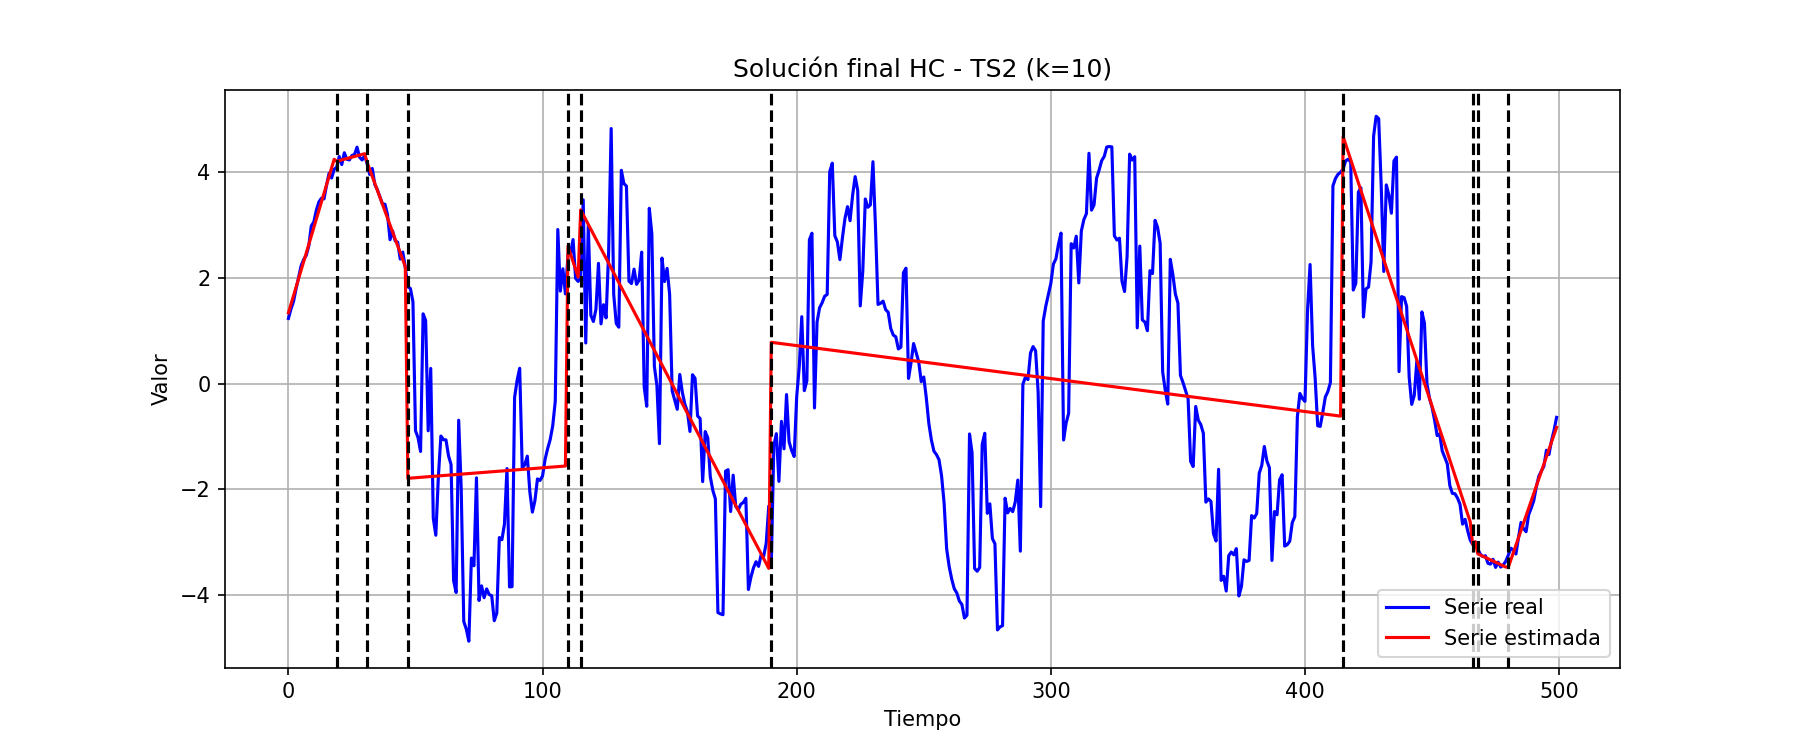
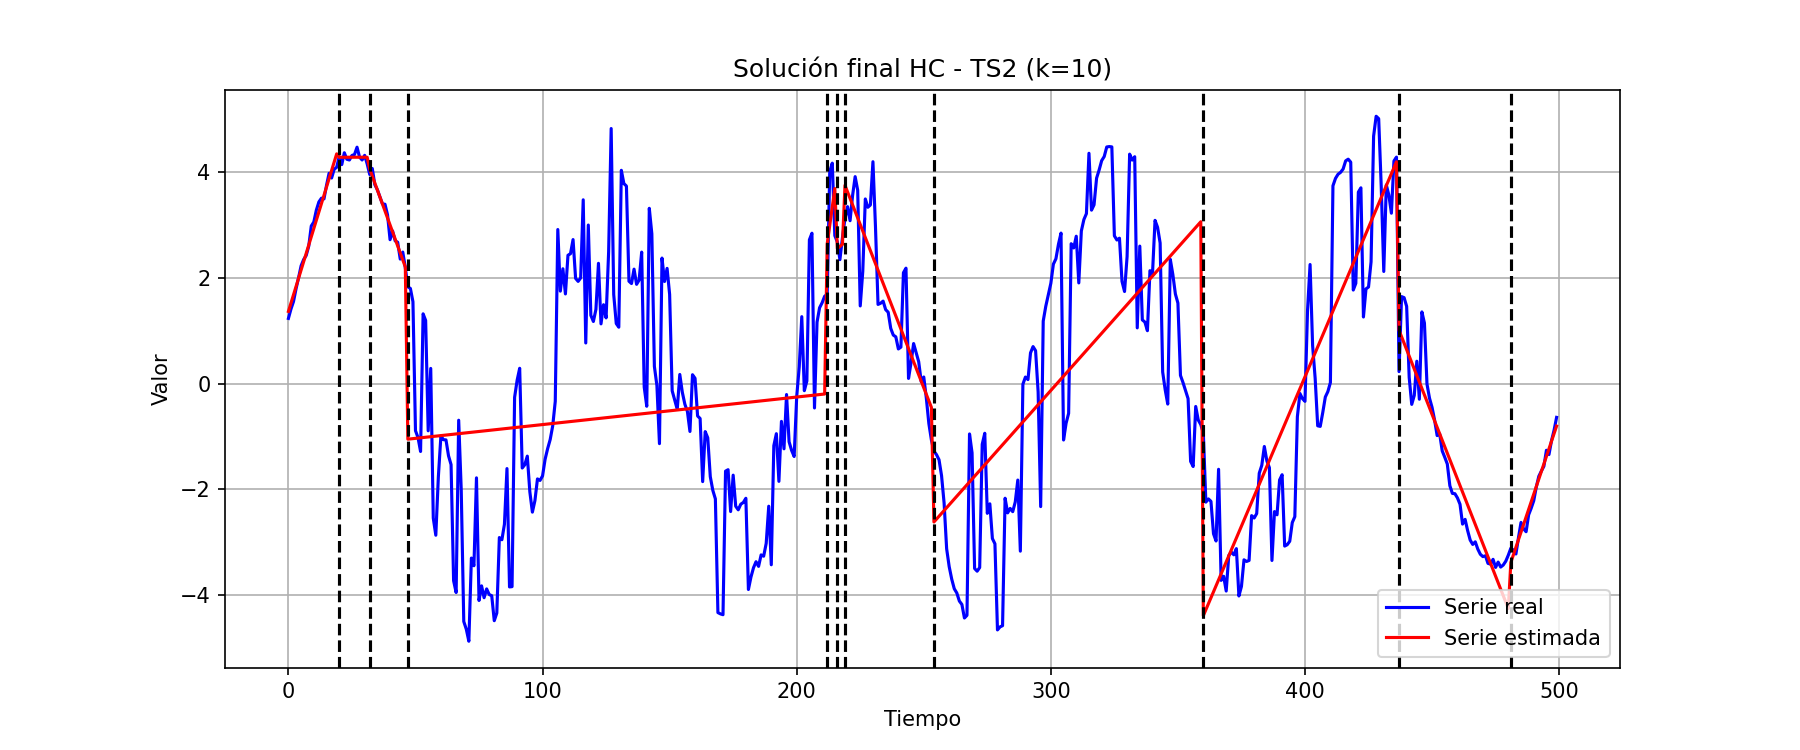
Fix: better linear regression

diff --git a/HC/hill_climbing.py b/HC/hill_climbing.py
@@ -17,38 +17,61 @@ def read_serie(path):
     return [float(x) for x in contenido]
 
 
-def estimate_segment_coef(x, y):
-    x = np.array(x).reshape(-1, 1)
+
+def estimate_coef(x, y):
+    x = np.array(x)
     y = np.array(y)
-    if len(x) < 2:
+    n = np.size(x)
+
+    if n == 0:
         return (0.0, 0.0)
-    model = LinearRegression().fit(x, y)
-    return (model.coef_[0], model.intercept_)
+
+    m_x = np.mean(x)
+    m_y = np.mean(y)
+
+    SS_xy = np.sum(y * x) - n * m_y * m_x
+    SS_xx = np.sum(x * x) - n * m_x * m_x
+
+    if abs(SS_xx) < 1e-8:
+        b_0 = 0.0
+        b_1 = m_y
+    else:
+        b_0 = SS_xy / SS_xx
+        b_1 = m_y - b_0 * m_x
+
+    return (float(b_0), float(b_1))
 
 
-def estimate_all_coef(serie, points):
+def estimate_all_coef(temp, points):
     coef = []
     start = 0
+
     pts = points.copy()
-    pts.append(len(serie))
-    for end in pts:
-        x = list(range(start, end))
-        y = serie[start:end]
-        coef.append(estimate_segment_coef(x, y))
-        start = end
+    pts.append(len(temp))
+
+    for point in pts:
+        b_0, b_1 = estimate_coef(range(start, point), temp[start:point])
+        coef.append((b_0, b_1))
+        start = point
+
     return coef
 
 
-def estimate_all_points(coef, points, n):
+def estimate_point(coef, i):
+    return i * coef[0] + coef[1]
+
+def estimate_all_points(coef, points, temp_size):
     estimated = []
     start = 0
+
     pts = points.copy()
-    pts.append(n)
-    for idx, end in enumerate(pts):
-        m, b = coef[idx]
-        for i in range(start, end):
-            estimated.append(m * i + b)
-        start = end
+    pts.append(temp_size)
+
+    for pos, point in enumerate(pts):
+        for i in range(start, point):
+            estimated.append(estimate_point(coef[pos], i))
+        start = point
+
     return estimated
 
 
@@ -108,12 +131,12 @@ def search_neighbour(serie, n):
     for i, point in enumerate(serie):
         # Mover + 1% del tamaño de la serie
         v1 = serie.copy()
-        v1[i] = point + int(n / 100)
+        v1[i] = point + int(n / 50)
         vecinos.append(v1)
 
         # Mover - 1% del tamaño de la serie
         v2 = serie.copy()
-        v2[i] = point - int(n / 100)
+        v2[i] = point - int(n / 50)
         vecinos.append(v2)
 
     validos = []
@@ -144,11 +167,11 @@ def hc(serie, k, best=None):
     solucion = randomPoints(len(serie), k)
     rmse = mean_rmse(serie, solucion)
     mejor_vecino = []
-
+    evolution=[]
     while mejor_vecino is not None:
         vecinos = search_neighbour(solucion, len(serie))
 
-        mejor_vecino = None
+        mejor_vecino = None 
         mejor_rmse = rmse
 
         for v in vecinos:
@@ -161,12 +184,14 @@ def hc(serie, k, best=None):
             solucion = mejor_vecino
             rmse = mejor_rmse
 
+        evolution.append({"rmse":rmse,"points":solucion})
+
     if best is not None and best["rmse"] < rmse:
         rmse = best["rmse"]
         solucion = best["points"]
 
     endTime = time.time()
-    return {"rmse": rmse, "points": solucion}, endTime - startTime
+    return {"rmse": rmse, "points": solucion}, endTime - startTime, evolution
 
 
 # ============================================================
@@ -186,7 +211,7 @@ def ejecutar_HC(series, k_values, repeticiones=20):
         rep_result = []
         for rep in range(repeticiones):
             if len(rep_result) > 0:
-                sol, tiempo = hc(
+                sol, tiempo, _= hc(
                     serie,
                     k,
                     {
@@ -195,7 +220,7 @@ def ejecutar_HC(series, k_values, repeticiones=20):
                     },
                 )
             else:
-                sol, tiempo = hc(serie, k)
+                sol, tiempo, _= hc(serie, k)
 
             rep_result.append(
                 {"rmse": sol["rmse"], "points": sol["points"], "tiempo": tiempo}

diff --git a/SA/simulated_annealing.py b/SA/simulated_annealing.py
@@ -32,30 +32,60 @@ def estimate_segment_coef(x, y):
     model = LinearRegression().fit(x, y)
     return (model.coef_[0], model.intercept_)
 
+def estimate_coef(x, y):
+    x = np.array(x)
+    y = np.array(y)
+    n = np.size(x)
 
-def estimate_all_coef(serie, points):
+    if n == 0:
+        return (0.0, 0.0)
+
+    m_x = np.mean(x)
+    m_y = np.mean(y)
+
+    SS_xy = np.sum(y * x) - n * m_y * m_x
+    SS_xx = np.sum(x * x) - n * m_x * m_x
+
+    if abs(SS_xx) < 1e-8:
+        b_0 = 0.0
+        b_1 = m_y
+    else:
+        b_0 = SS_xy / SS_xx
+        b_1 = m_y - b_0 * m_x
+
+    return (float(b_0), float(b_1))
+
+
+def estimate_all_coef(temp, points):
     coef = []
     start = 0
+
     pts = points.copy()
-    pts.append(len(serie))
-    for end in pts:
-        x = list(range(start, end))
-        y = serie[start:end]
-        coef.append(estimate_segment_coef(x, y))
-        start = end
+    pts.append(len(temp))
+
+    for point in pts:
+        b_0, b_1 = estimate_coef(range(start, point), temp[start:point])
+        coef.append((b_0, b_1))
+        start = point
+
     return coef
 
 
-def estimate_all_points(coef, points, n):
+def estimate_point(coef, i):
+    return i * coef[0] + coef[1]
+
+def estimate_all_points(coef, points, temp_size):
     estimated = []
     start = 0
+
     pts = points.copy()
-    pts.append(n)
-    for idx, end in enumerate(pts):
-        m, b = coef[idx]
-        for i in range(start, end):
-            estimated.append(m * i + b)
-        start = end
+    pts.append(temp_size)
+
+    for pos, point in enumerate(pts):
+        for i in range(start, point):
+            estimated.append(estimate_point(coef[pos], i))
+        start = point
+
     return estimated
 
 
@@ -109,12 +139,12 @@ def random_neighbour(points, n):
     for i, point in enumerate(points):
         # mover + 1% del tamaño de la serie
         v1 = points.copy()
-        v1[i] = point + int(n / 100)
+        v1[i] = point + int(n / 50)
         vecinos.append(v1)
 
         # mover - 1% del tamaño de la serie
         v2 = points.copy()
-        v2[i] = point - int(n / 100)
+        v2[i] = point - int(n / 50)
         vecinos.append(v2)
 
     # Filtrar vecinos inválidos
